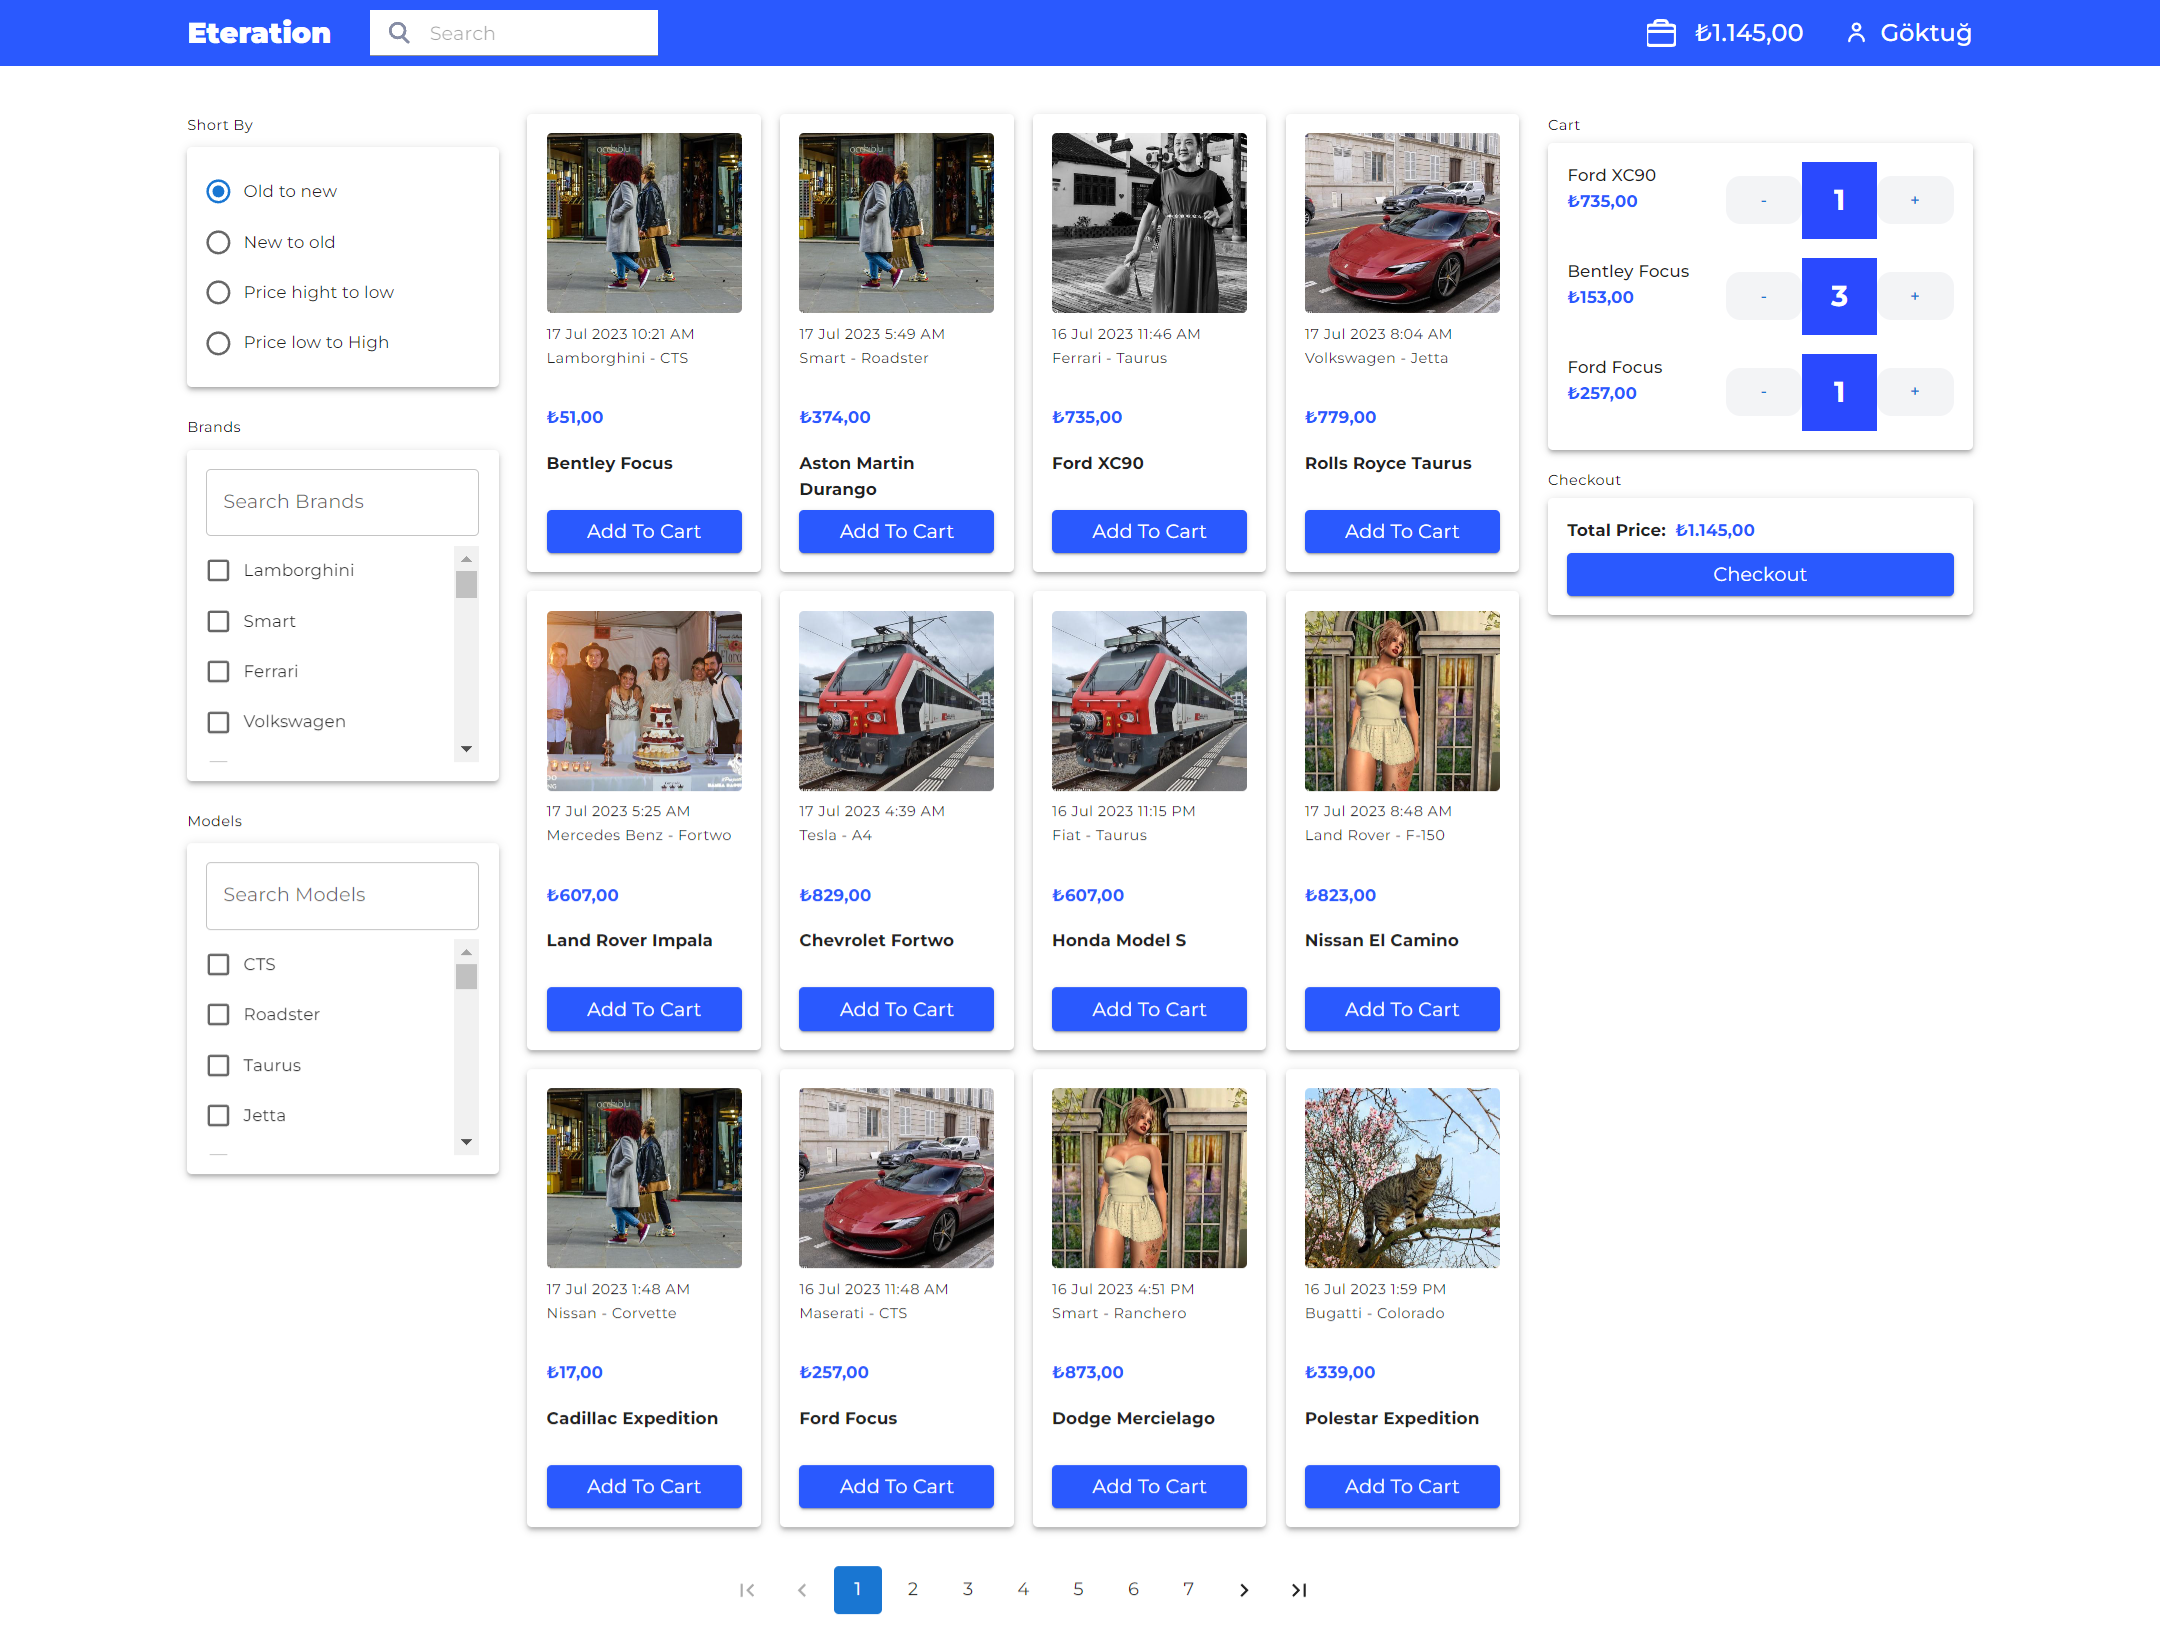
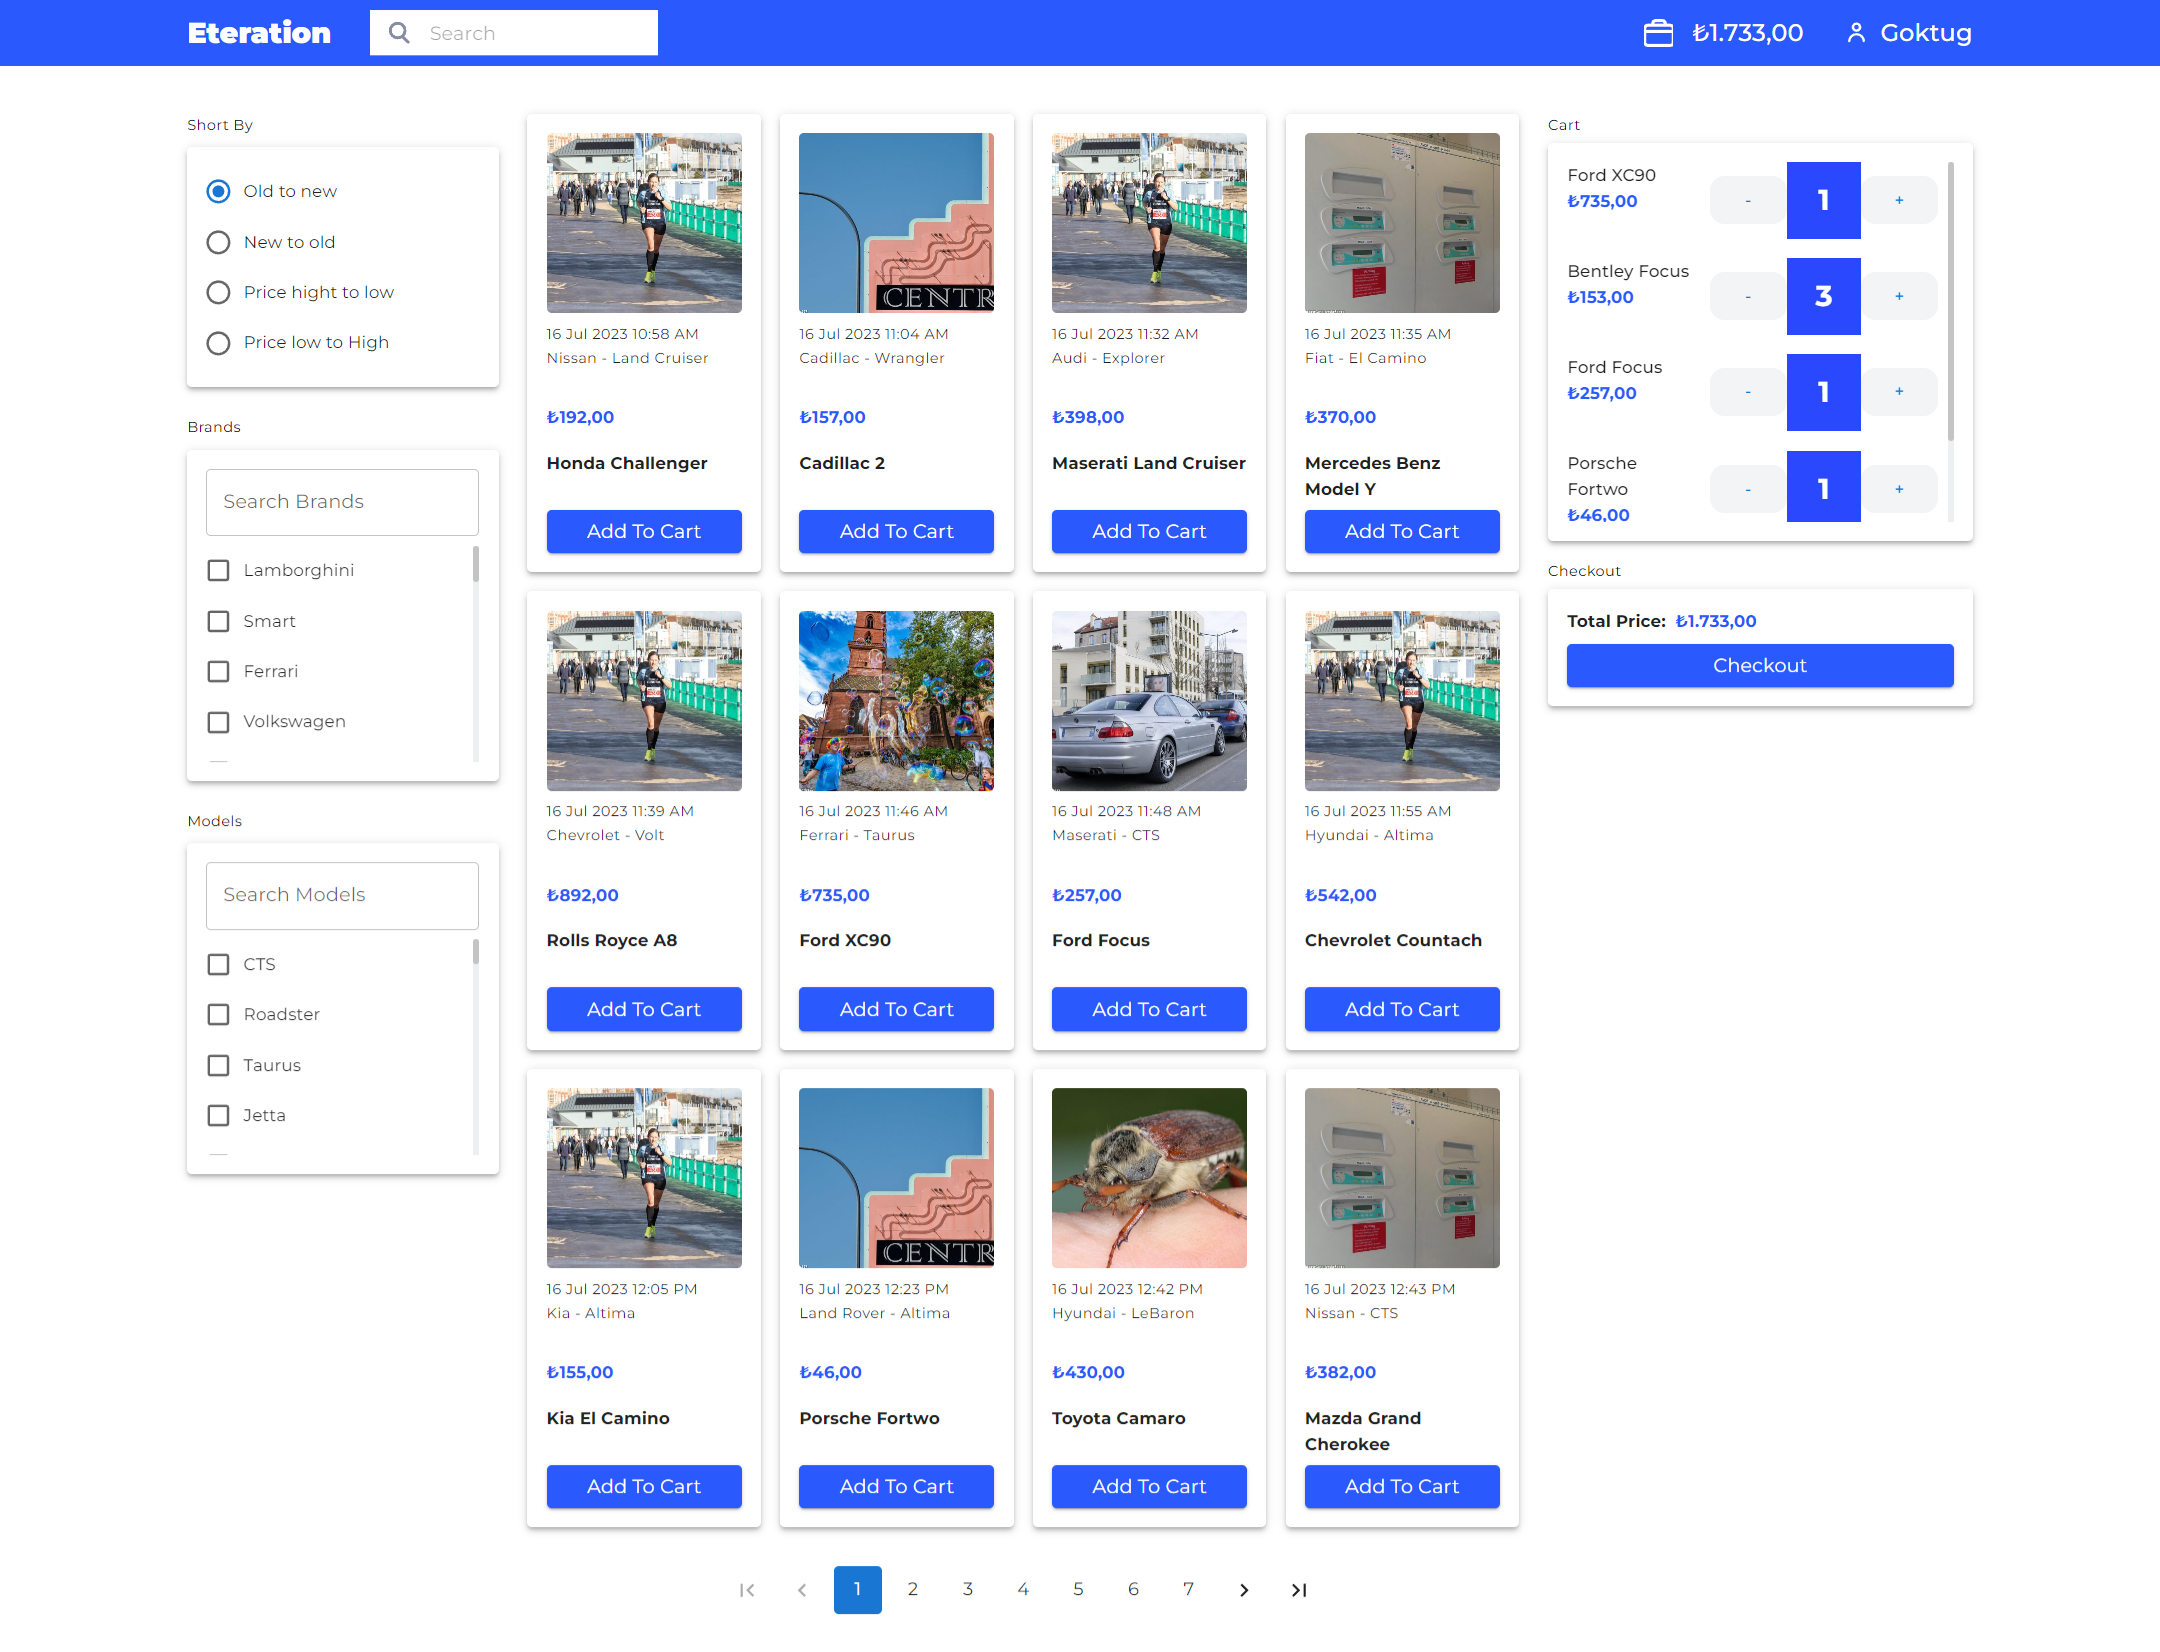
scroll tasarımı eklendi

diff --git a/src/App.css b/src/App.css
@@ -1,3 +1,20 @@
 * {
   font-family: "Montserrat", sans-serif !important;
 }
+
+/* Scroll barlar */
+::-webkit-scrollbar {
+  width: 5px;
+}
+
+/* Scroll indicator */
+::-webkit-scrollbar-thumb {
+  background-color: #C4C4C4; /* Renk */
+  border-radius: 5px; /* Kenar yarıçapı */
+}
+
+/* Scroll track */
+::-webkit-scrollbar-track {
+  background-color: #ecf0f1; /* Arka plan rengi */
+}
+

diff --git a/src/Layouts/Basket/List/basket-list.jsx b/src/Layouts/Basket/List/basket-list.jsx
@@ -8,7 +8,7 @@ export default function BasketList() {
     useRenderBasket();
   return (
     <Paper elevation={3} variant="elevation" sx={{ p: 2 }}>
-      <Stack spacing={2} sx={{ maxHeight: 300, overflow: "auto" }}>
+      <Stack spacing={2} sx={{ maxHeight: 300, overflow: "auto", pr:1 }}>
         {basketItems.map((item) => (
           <Stack
             direction="row"
